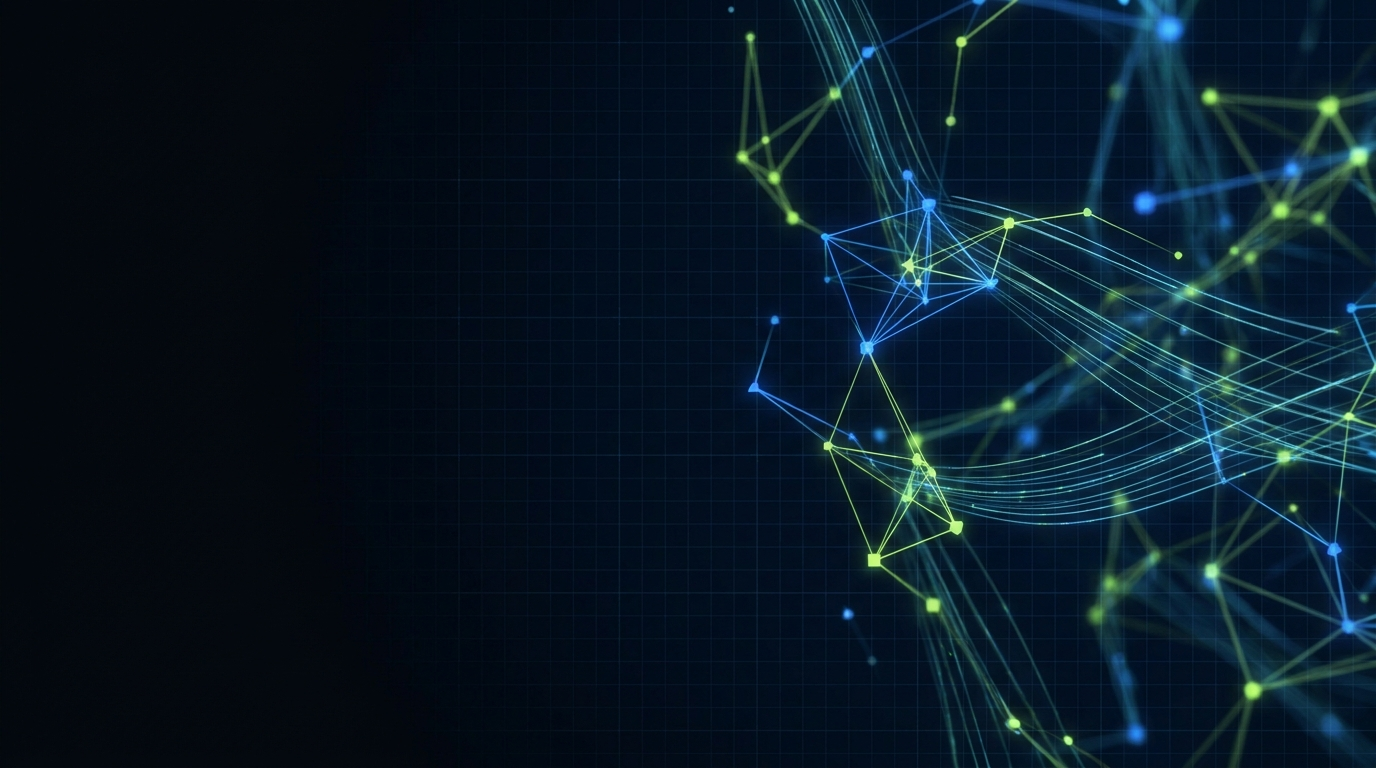
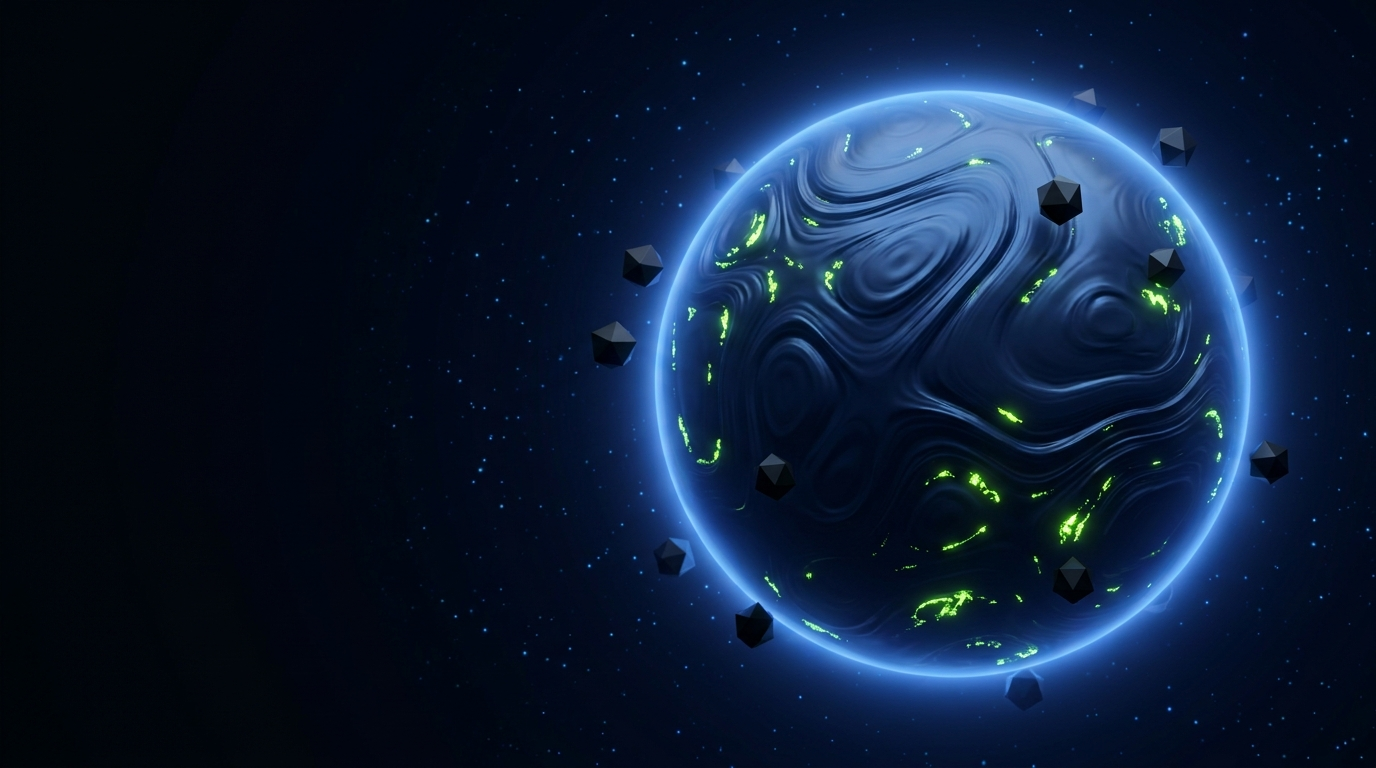
Higgsfield art direction: section backdrop plates (gaps/systems/process/signal), new OG, ScrollTrigger refresh hardening

diff --git a/css/styles.css b/css/styles.css
@@ -106,7 +106,12 @@ body.has-cursor .cursor,body.has-cursor .cursor-ring{display:block;}
 .core-line.core-small .serif{display:none;}
 
 /* sections */
-.section{padding:var(--et-space-9) 0;position:relative;}
+.section{padding:var(--et-space-9) 0;position:relative;overflow:hidden;}
+.section-art{position:absolute;inset:0;z-index:0;pointer-events:none;opacity:.42;}
+.section-art img{width:100%;height:100%;object-fit:cover;
+  -webkit-mask-image:linear-gradient(180deg,transparent,#000 22%,#000 78%,transparent);
+  mask-image:linear-gradient(180deg,transparent,#000 22%,#000 78%,transparent);}
+.section>.container,.how-head,.how-viewport{position:relative;z-index:1;}
 .section-alt{background:var(--et-ink);border-top:1px solid var(--et-line);border-bottom:1px solid var(--et-line);}
 .section-title{font-family:var(--et-font-display);font-weight:700;font-size:clamp(1.7rem,3.6vw,2.6rem);letter-spacing:-0.02em;line-height:1.15;margin-bottom:var(--et-space-4);max-width:840px;}
 .section-title .serif{color:var(--et-mist);}
@@ -123,7 +128,7 @@ body.has-cursor .cursor,body.has-cursor .cursor-ring{display:block;}
 .svc-ico{font-size:26px;color:var(--et-blue);line-height:1;margin-bottom:14px;}
 
 /* how it works */
-.how{padding:var(--et-space-9) 0;overflow:hidden;}
+.how{padding:var(--et-space-9) 0;overflow:hidden;position:relative;}
 .how-head{margin-bottom:var(--et-space-6);}
 .how-viewport{overflow:hidden;}
 .process-track{display:flex;flex-direction:column;gap:var(--et-space-4);padding:0 var(--et-gutter);}

diff --git a/index.html b/index.html
@@ -93,6 +93,7 @@
   </section>
 
   <section id="gaps" class="section">
+    <div class="section-art" aria-hidden="true"><img src="assets/art/gaps.webp" alt="" loading="lazy" decoding="async"></div>
     <div class="container">
       <p class="eyebrow" data-reveal>// 01 — the gaps</p>
       <h2 class="section-title" data-rise>Where local businesses <em class="serif">leak time and leads</em></h2>
@@ -108,6 +109,7 @@
   </section>
 
   <section id="automate" class="section section-alt">
+    <div class="section-art" aria-hidden="true"><img src="assets/art/systems.webp" alt="" loading="lazy" decoding="async"></div>
     <div class="container">
       <p class="eyebrow" data-reveal>// 02 — what we automate</p>
       <h2 class="section-title" data-rise>Systems that <em class="serif">run without you</em></h2>
@@ -123,6 +125,7 @@
   </section>
 
   <section id="how" class="how">
+    <div class="section-art" aria-hidden="true"><img src="assets/art/process.webp" alt="" loading="lazy" decoding="async"></div>
     <div class="how-head container">
       <p class="eyebrow" data-reveal>// 03 — how it works</p>
       <h2 class="section-title" data-rise>Audited, built, and <em class="serif">live in days</em></h2>
@@ -184,6 +187,7 @@
   </section>
 
   <section id="book" class="section book">
+    <div class="section-art" aria-hidden="true"><img src="assets/art/signal.webp" alt="" loading="lazy" decoding="async"></div>
     <div class="container book-inner">
       <p class="eyebrow" data-reveal><span class="live-dot"></span> 06 — book a call</p>
       <h2 class="section-title" data-rise>Find one gap. <em class="serif">We'll close it.</em></h2>

diff --git a/js/main.js b/js/main.js
@@ -105,6 +105,7 @@
   if (hasGsap && !reduce) {
     gsap.registerPlugin(ScrollTrigger);
     if (lenis) lenis.on('scroll', ScrollTrigger.update);
+    window.addEventListener('load', function () { setTimeout(function () { ScrollTrigger.refresh(); }, 300); });
 
     $$('[data-reveal]').forEach(function (el) {
       gsap.fromTo(el, { y: 24, opacity: 0 }, { y: 0, opacity: 1, duration: 0.7, ease: 'power2.out', scrollTrigger: { trigger: el, start: 'top 86%' } });